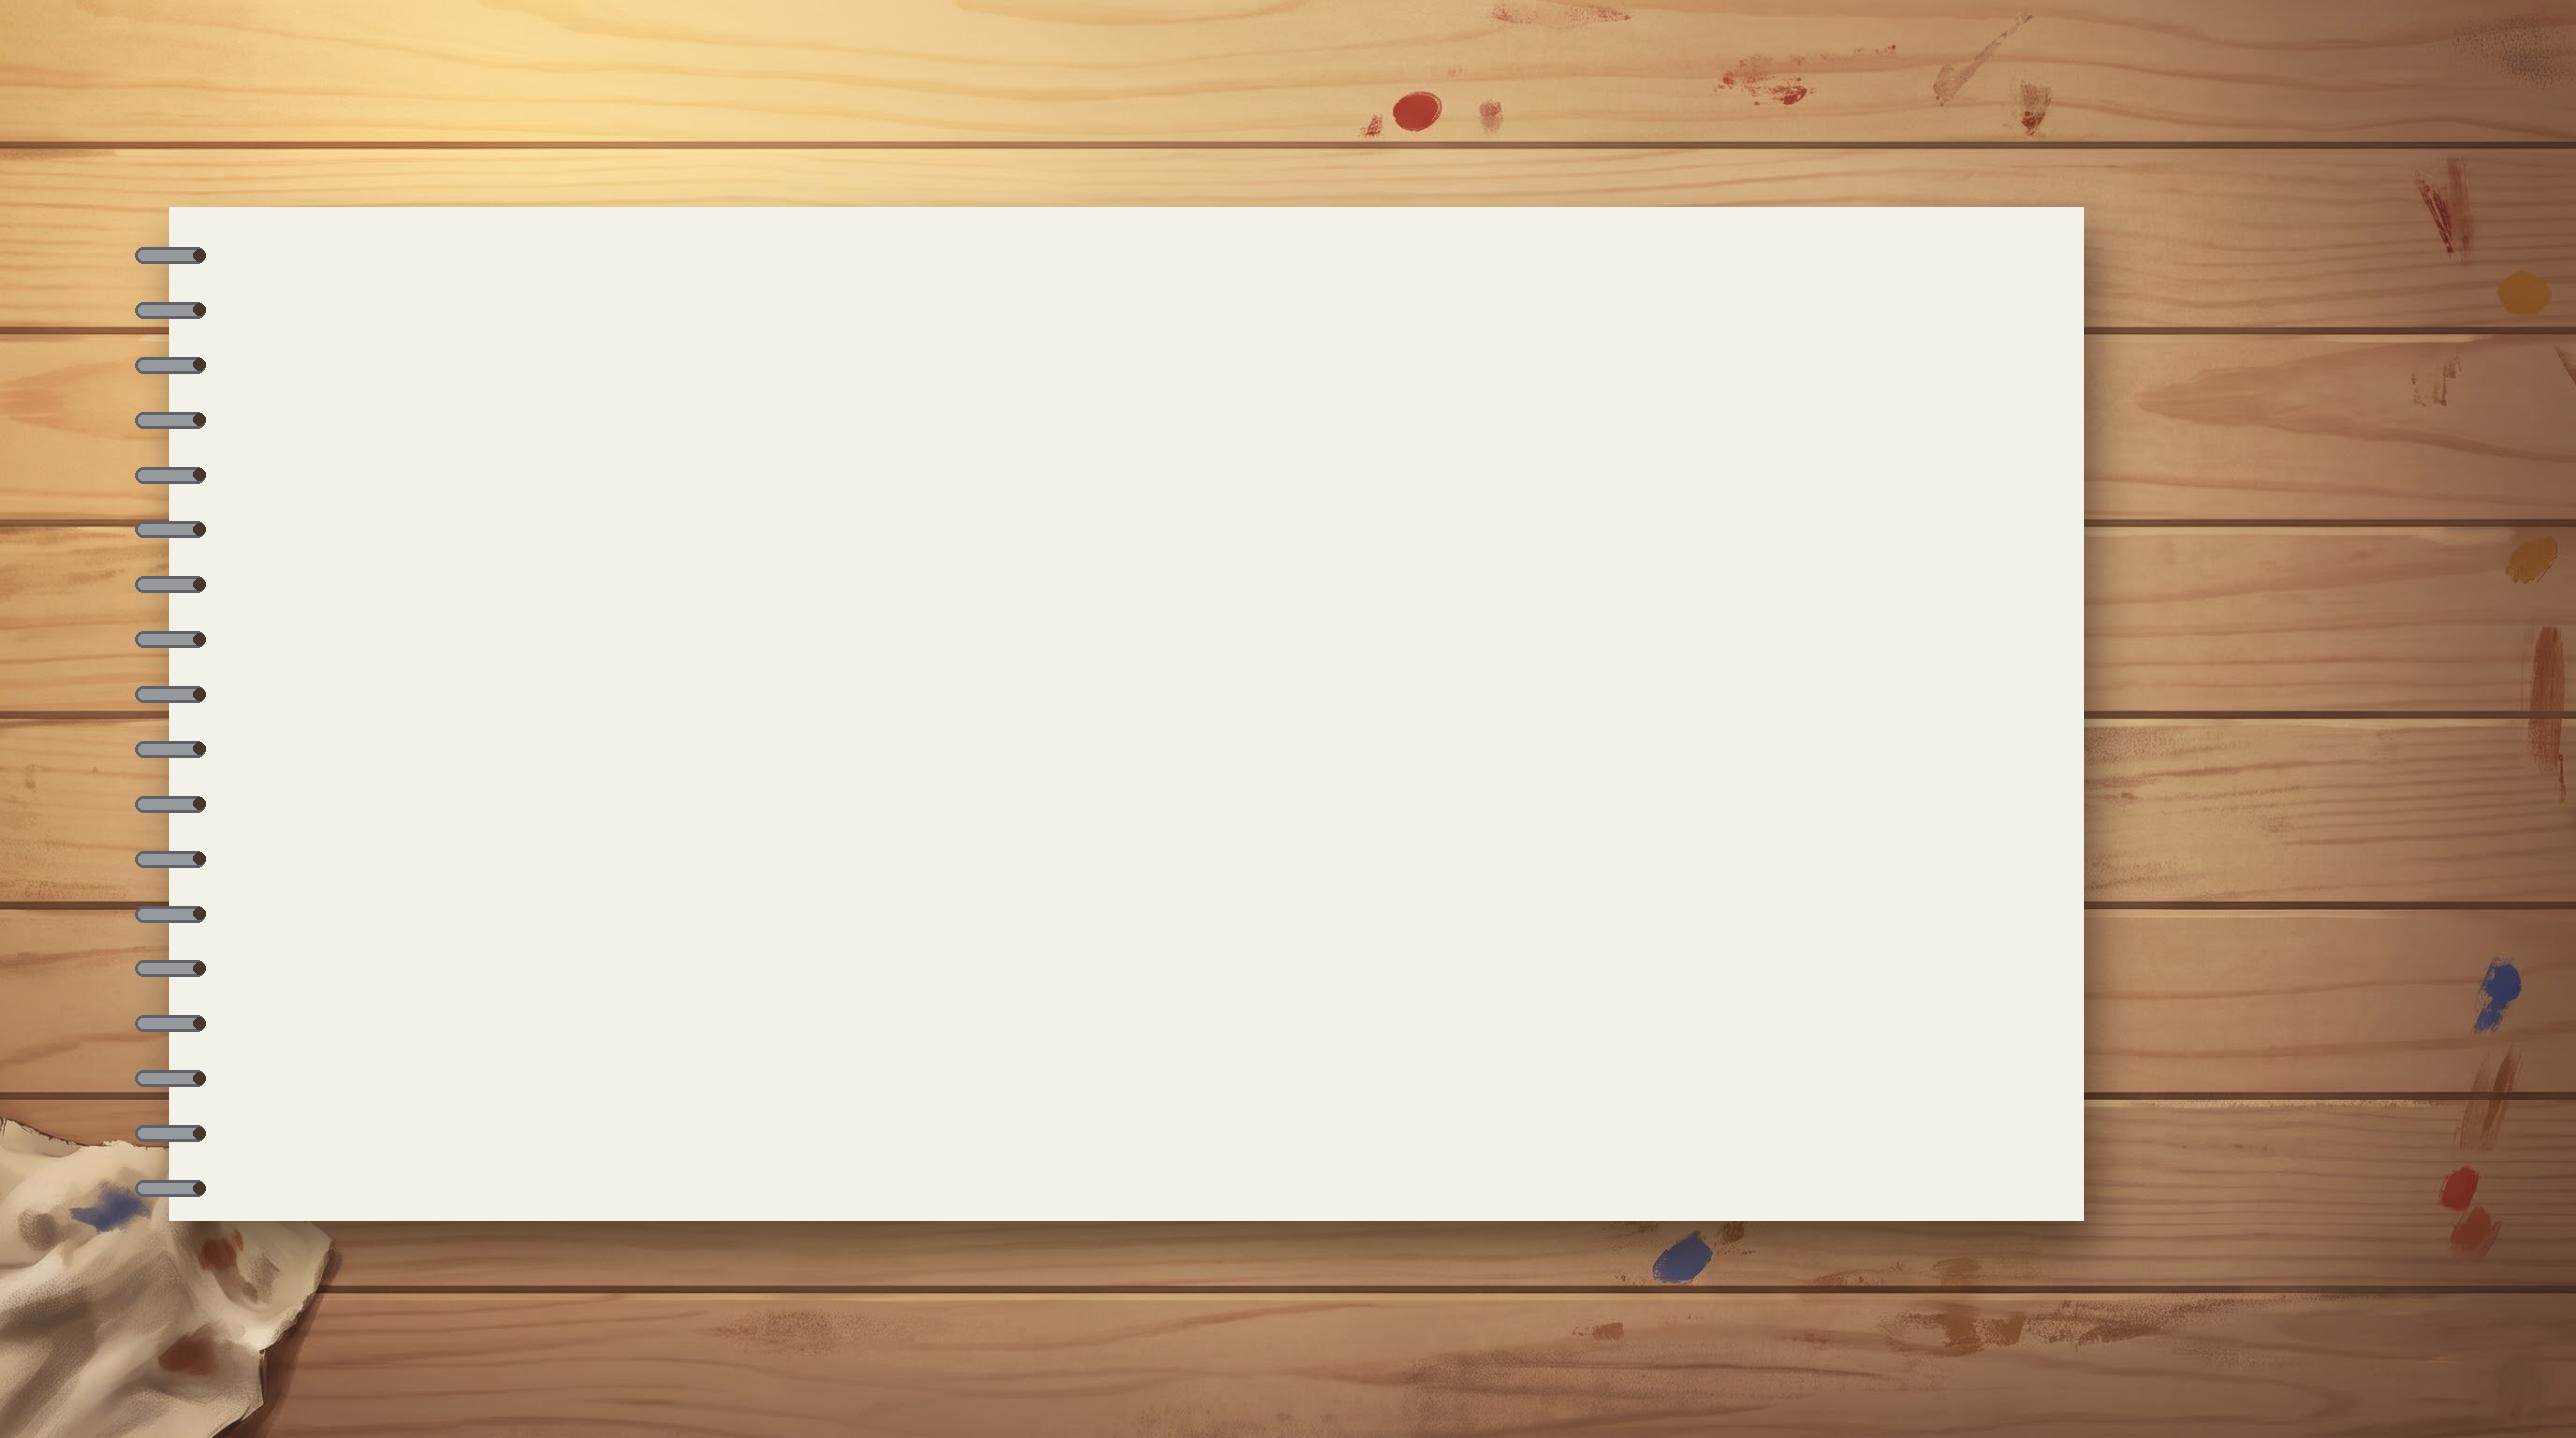
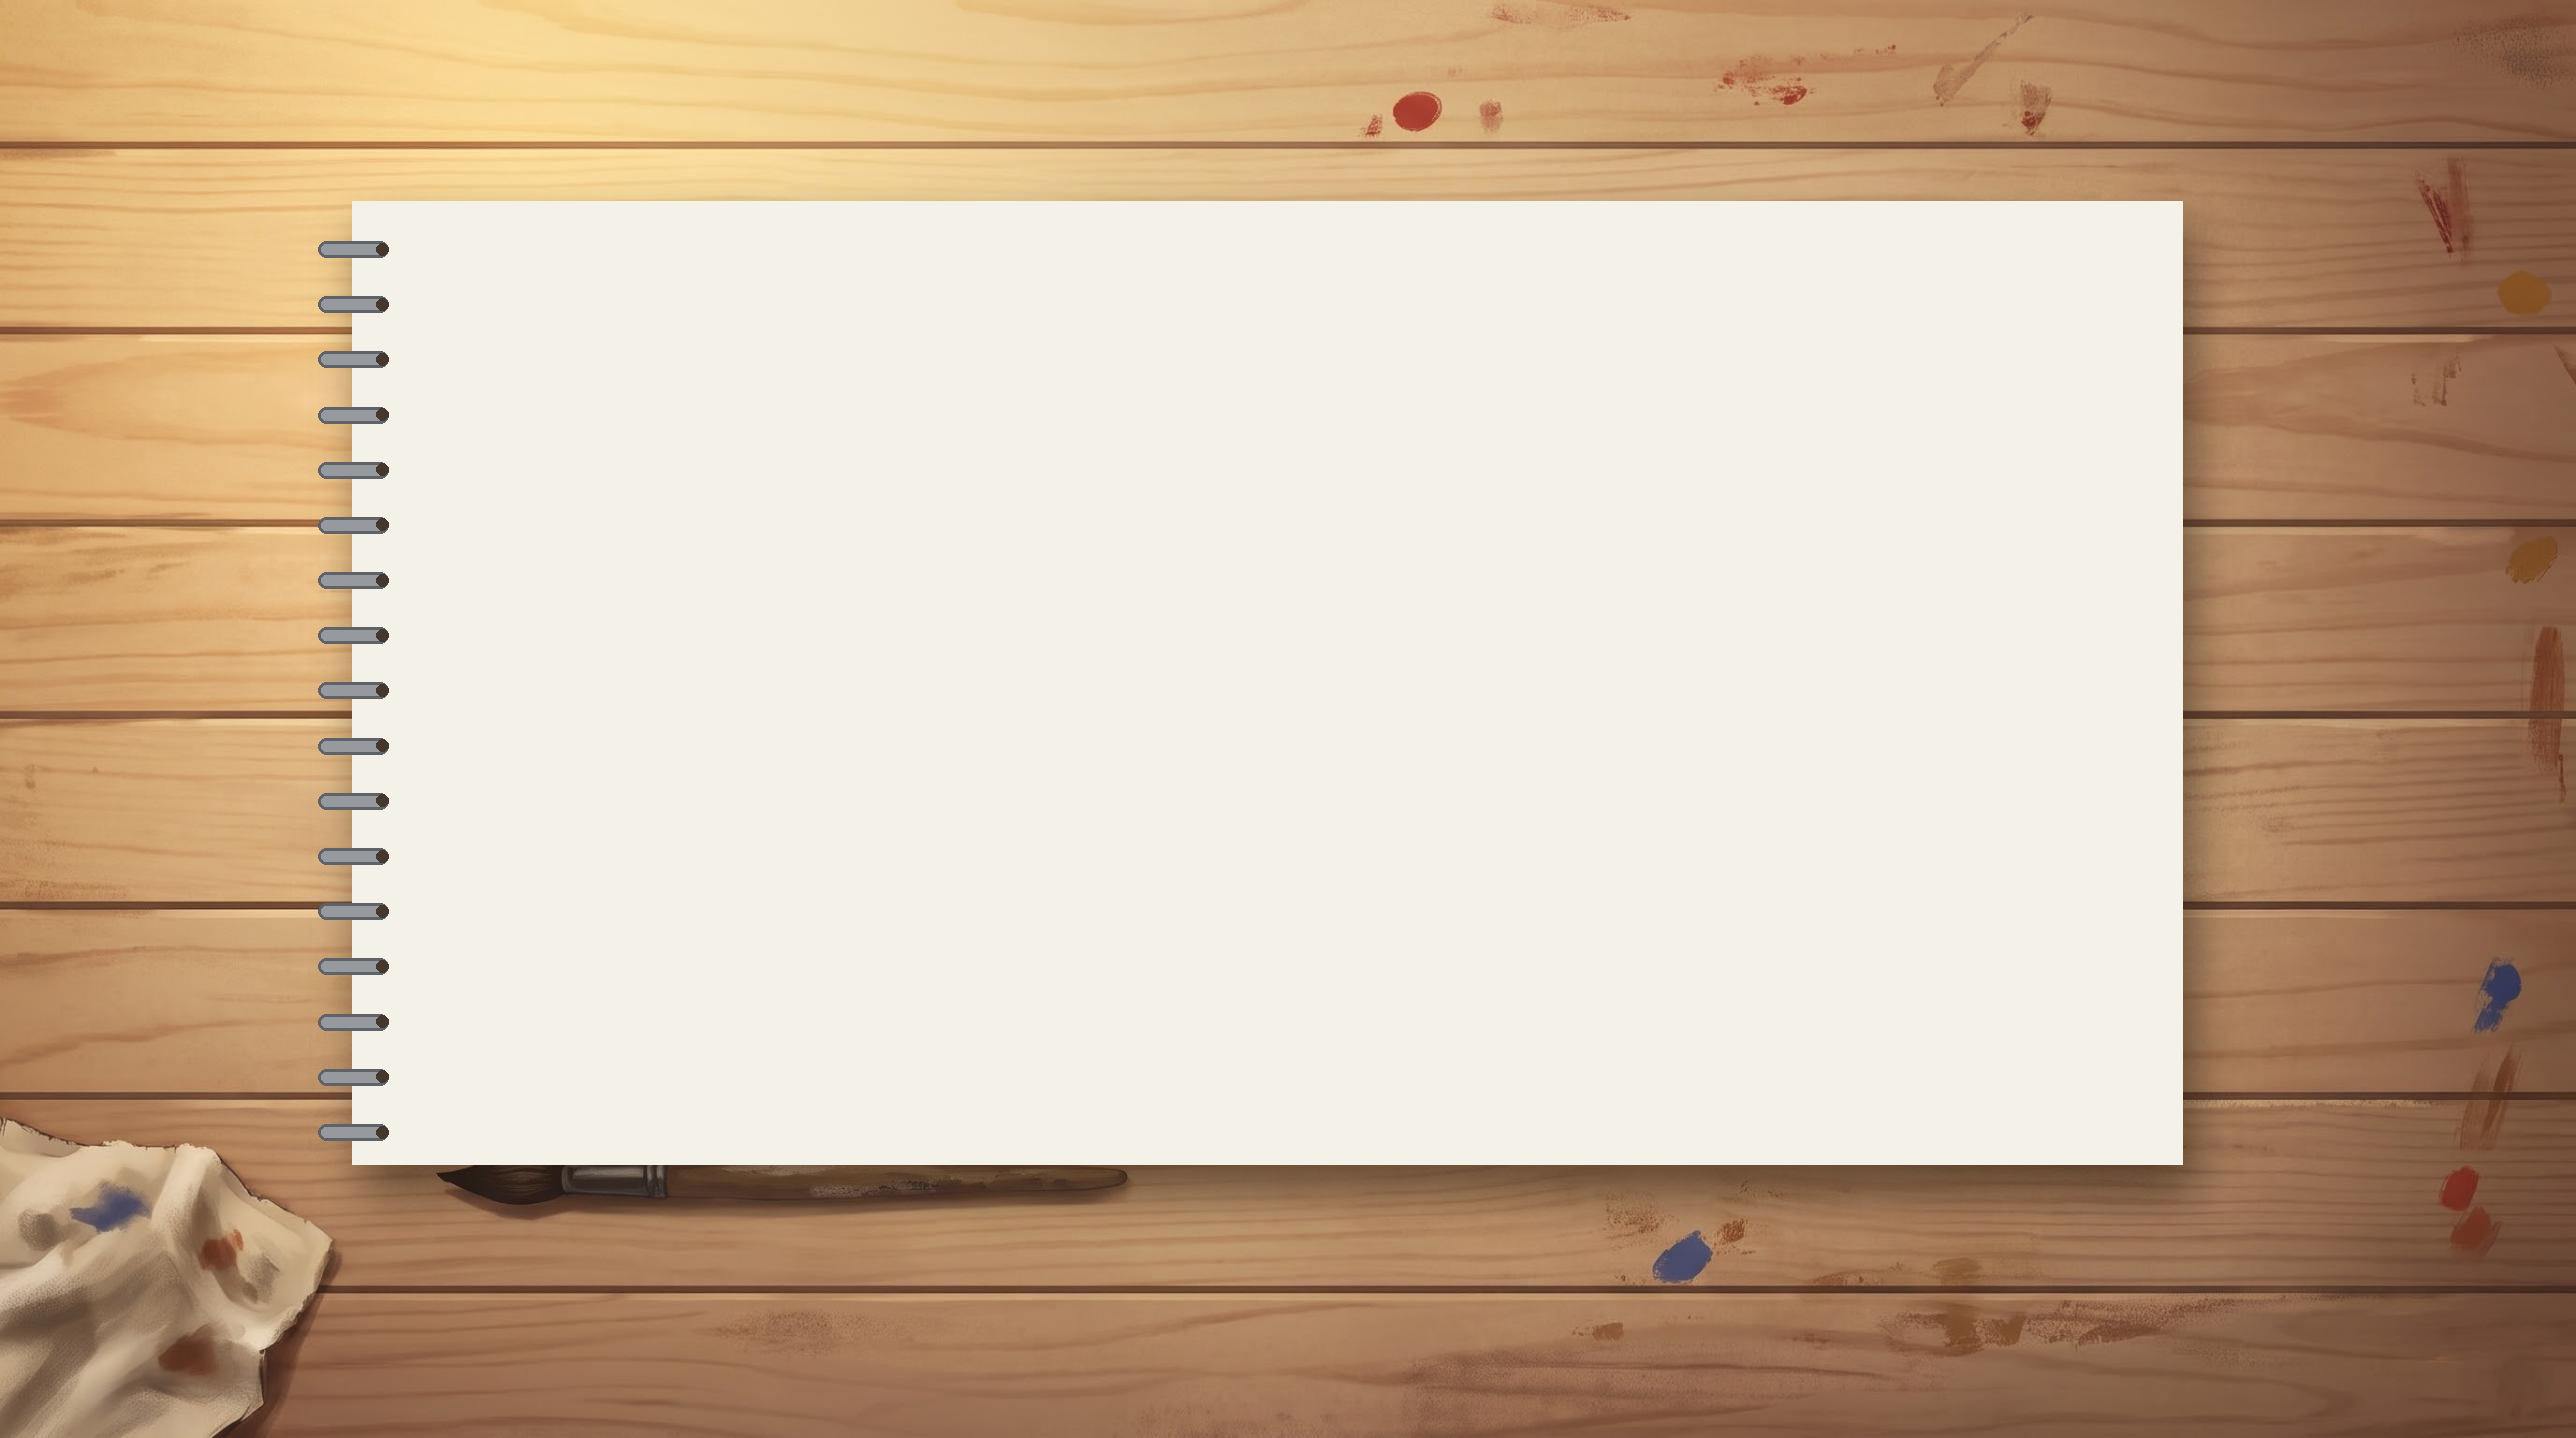
P-009: el block, más arriba y sin tapar el trapo; posición explícita en el pedido
Claude-Session: https://claude.ai/code/session_01PXLdeJLbZuo4aHF8cabHr7

Changed region(s): [[0.0311, 0.1224, 0.8696, 0.8873]]

diff --git a/docs/buenojo/README.md b/docs/buenojo/README.md
@@ -78,19 +78,23 @@ Imágenes, en este orden: [la referencia](../mahjong/arte/P-006_fondo-mesa.jpg) 
 
 ### El pedido P-009
 
-Imágenes, en este orden: [la mesa aprobada](arte/P-008_fondo-mesa.jpg) (el P-008, que tiene que quedar igual) y [la composición](bocetos/P-009-composicion.png) (la misma mesa con el block dibujado plano encima). Texto:
+Imágenes, en este orden: [la mesa aprobada](arte/P-008_fondo-mesa.jpg) (el P-008, que tiene que quedar igual) y [la composición](bocetos/P-009-composicion.png) (la misma mesa con el block dibujado plano encima). El block va en x 352 a 2182 e y 201 a 1164 de la imagen: más arriba que el centro y sin tapar el trapo. Si llega corrido, el código acomoda lo que va escrito encima. Texto:
 
-> Necesito agregarle un objeto a una ilustración que ya está aprobada, sin cambiar nada más. Es el fondo de un juego para celular: la mesa de trabajo de un pintor de los años 70 vista exactamente desde arriba. Encima de la mesa va un block de dibujo anillado, abierto en una hoja en blanco; lo que se escribe en la hoja lo pone el juego.
+> Necesito agregarle un objeto a una ilustración que ya está aprobada, sin cambiar nada más. Es el fondo de un juego para celular: la mesa de trabajo de un pintor de los años 70 vista exactamente desde arriba. Encima de la mesa va un block de dibujo anillado, abierto en una hoja en blanco; lo que se escribe en la hoja lo pone el juego, por eso el lugar del block tiene que ser exacto.
 >
 > Te mando dos imágenes:
 > 1. La ilustración aprobada: la mesa de pino con sus tablas, las manchas de pintura, el pincel y el trapo. Tiene que quedar idéntica: el mismo encuadre, las mismas tablas, la misma luz y los mismos colores. No la redibujes ni la reencuadres.
 > 2. Boceto de composición: la misma mesa con el block dibujado plano encima, en el lugar y del tamaño exactos que tiene que tener. El boceto es esquemático; la terminación tiene que ser la de la ilustración aprobada.
 >
-> Lo que tiene que tener el block:
-> - Un block de dibujo de los 70, horizontal, apoyado derecho sobre la mesa, con el anillado de espiral de alambre metálico del lado izquierdo, como en el boceto. Ocupa exactamente el rectángulo del boceto: el borde de la hoja coincide con el del dibujo.
+> Dónde va el block (es lo más importante):
+> - NO va centrado en la imagen. Copiá la posición del boceto: la hoja empieza a unos 350 píxeles del borde izquierdo y termina a unos 395 del derecho; empieza a unos 200 píxeles del borde de arriba y termina a unos 275 del de abajo. Es decir, queda más cerca del borde de arriba que del de abajo.
+> - En píxeles de la imagen de 2576 × 1438: la esquina de arriba a la izquierda de la hoja en (352, 201) y la de abajo a la derecha en (2182, 1164).
+> - El trapo de la esquina de abajo a la izquierda queda entero a la vista, sin que el block lo toque. El pincel queda en parte debajo del block y asoma por su borde de abajo, como en el boceto.
+>
+> Cómo es el block:
+> - Un block de dibujo de los 70, horizontal, apoyado derecho sobre la mesa (sin girar), con el anillado de espiral de alambre metálico del lado izquierdo, como en el boceto.
 > - La hoja, en blanco: papel de dibujo grueso color marfil, con una textura de papel muy suave, sin renglones, sin cuadrícula, sin margen, sin manchas ni dibujos. Pareja en toda la superficie, porque el juego escribe encima.
 > - Debajo de la hoja, apenas a la vista por los bordes de abajo y de la derecha, el canto de las otras hojas, y una sombra suave sobre la madera, con la misma luz de la ilustración, que viene de arriba a la izquierda.
-> - El block tapa el pincel; el trapo de la esquina de abajo a la izquierda asoma por debajo, como en el boceto.
 > - Sin texto ni letras, sin tapa visible con marcas, sin lápices ni otros objetos nuevos, sin personas ni manos.
 > - El mismo tamaño que la ilustración aprobada: 2576 × 1438.
 
